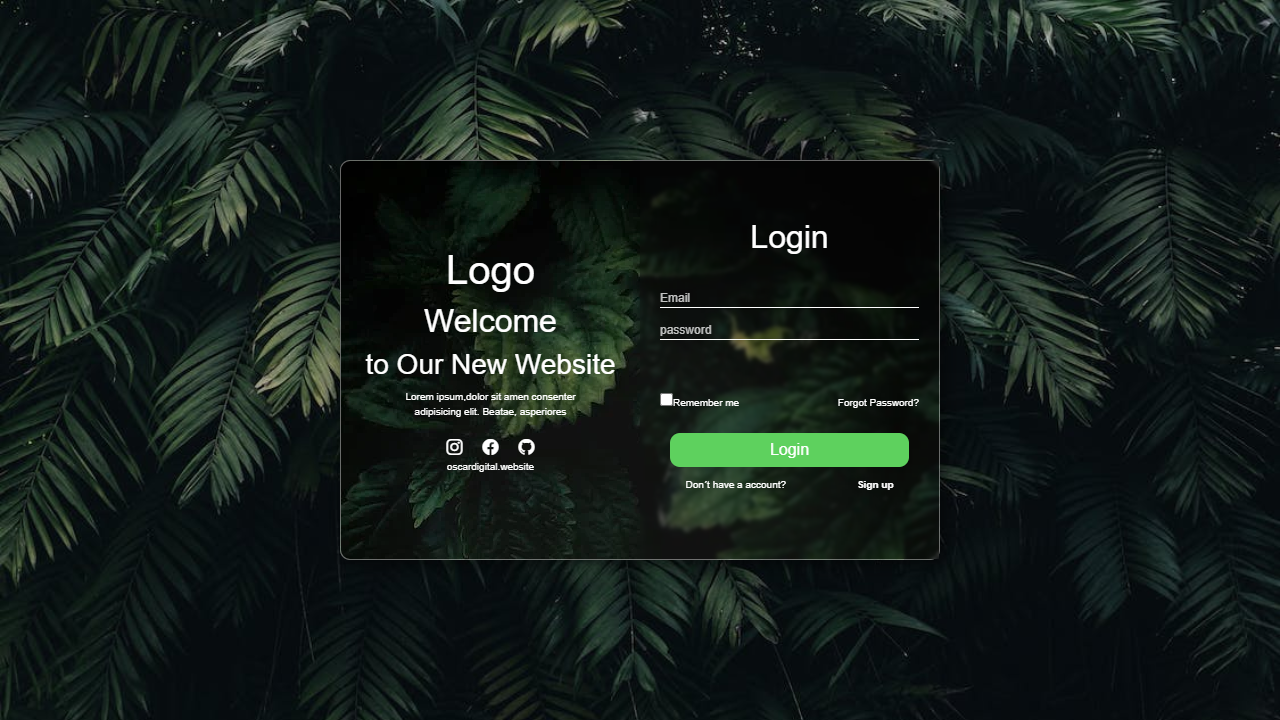
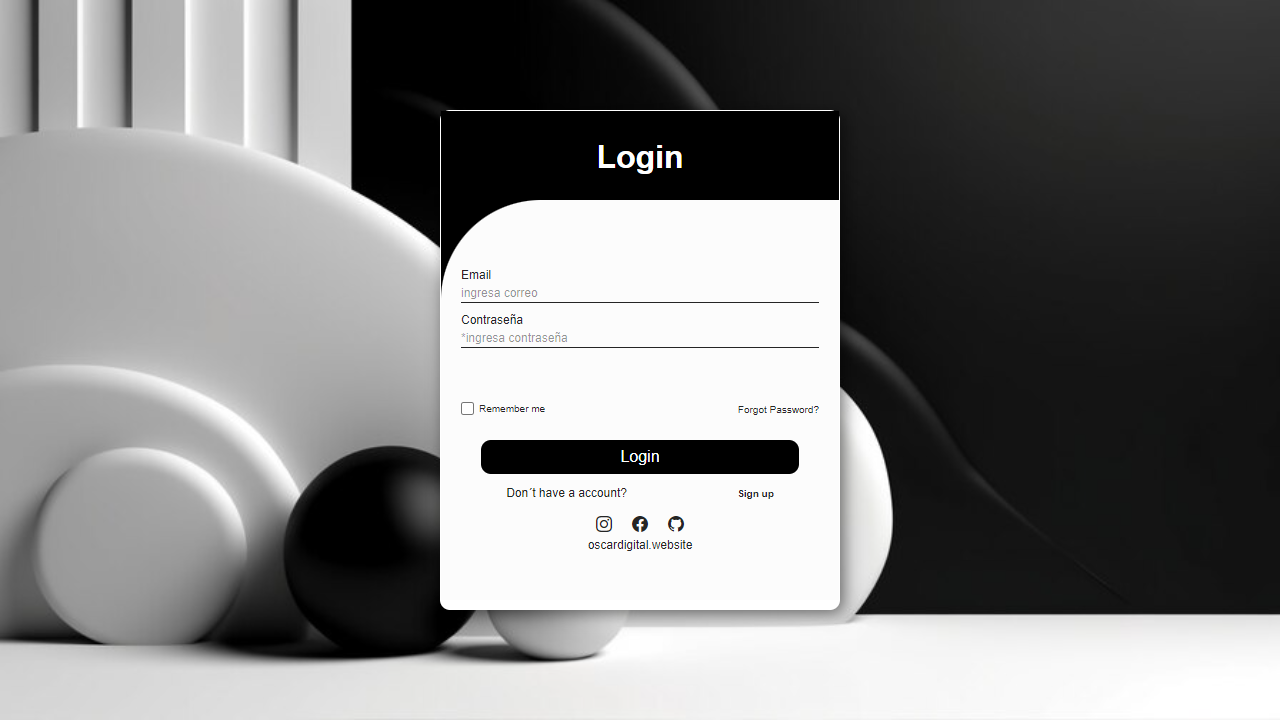
login elegant

diff --git a/src/pages/login-elegant.css b/src/pages/login-elegant.css
@@ -8,7 +8,7 @@
   position: relative;
   width: 100%;
   height: 100vh;
-  background-image: url("https://images.pexels.com/photos/9436715/pexels-photo-9436715.jpeg?auto=compress&cs=tinysrgb&w=1200");
+  background-image: url("https://img.freepik.com/foto-gratis/fondo-blanco-negro_23-2150530972.jpg?w=900&t=st=1697025914~exp=1697026514~hmac=94805a9ba666bcc3e22076189b3f545e8d664fd72c6e51c4d03078084e406e49");
   background-size: cover;
   background-repeat: no-repeat;
   display: flex;
@@ -19,7 +19,7 @@
 .card-box {
   position: relative;
   width: 400px;
-  height: 400px;
+  height: 500px;
   border-radius: 10px;
   -webkit-border-radius: 10px;
   -moz-border-radius: 10px;
@@ -29,23 +29,54 @@
   justify-content: center;
   align-items: center;
   box-shadow: 4px 4px 16px rgba(0, 0, 0, 0.535);
-  border: 1px solid rgba(255, 255, 255, 0.4);
-  background-color: rgba(254, 254, 254, 0.253);
-  backdrop-filter: blur(4px);
+  background-color: rgb(255, 255, 255);
+  border: 1px solid rgba(255, 255, 255, 0.23);
 }
 .form {
-  width: 80%;
+  position: relative;
+  width: 100%;
+  height: 400px;
   color: var(--color-text);
   display: flex;
   justify-content: center;
   flex-direction: column;
+  background-color: rgb(252, 252, 252);
+  z-index: 1;
+  border-radius: 100px 0px 0px 0px;
+  -webkit-border-radius: 100px 0px 0px 0px;
+  -moz-border-radius: 100px 0px 0px 0px;
+  -ms-border-radius: 100px 0px 0px 0px;
+  -o-border-radius: 100px 0px 0px 0px;
+  top: 40px;
+
+}
+.form label {
+  font-size: 12px;
+}
+.figure {
+  position: absolute;
+  background-color: rgb(0, 0, 0);
+  width: 100%;
+  height: 300px;
+  top: 0;
+  z-index: 0;
 }
 .form span {
   text-align: center;
   font-size: 12px;
 }
-.form h2 {
+.title {
+  width: 100%;
+  height: 100px;
+  display: flex;
+  justify-content: center;
+  align-items: center;
+
+}
+.title h2 {
   text-align: center;
+  color: white;
+  font-weight: bold;
 }
 
 .social-media {
@@ -70,6 +101,7 @@
   width: 100%;
   color: var(--color-text);
   font-size: 12px;
+  outline: none;
 }
 
 .recover {
@@ -83,13 +115,18 @@
   color: var(--color-text);
 }
 
+.remember {
+  display: flex;
+  align-items: center;
+  gap: 5px;
+}
 .button {
   display: flex;
   justify-content: center;
 }
 
 .button button {
-  background-color: rgb(94, 209, 94);
+  background-color: rgb(0, 0, 0);
   border: none;
   border-radius: 10px;
   -webkit-border-radius: 10px;
@@ -114,13 +151,13 @@
 }
 .register a {
   font-weight: bold;
+  cursor: pointer;
+  color: var(--color-text);
 }
 
 @media (max-width: 960px) {
   .card-box {
-    display: flex;
-    flex-direction: column;
-    height: auto;
+    height: 500px;
     width: 90%;
   }
   .form {

diff --git a/src/pages/LoginElegant.jsx b/src/pages/LoginElegant.jsx
@@ -1,19 +1,23 @@
 import React from 'react'
-import "./login-glass.css"
+import "./login-elegant.css"
 
-function LoginGlass() {
+function LoginElegant() {
     return (
         <div className='login'>
             <div className='card-box'>
             
+                <div className='figure'>
+                    <div className='title'>
+                       <h2>Login</h2>
+                    </div> 
+                </div>
                 <div className='form'>
-                    <h2>Login</h2>
                     <div className='data'>
-                        <label><input placeholder='Email' /></label>
-                        <label><input type='password' placeholder='password' /></label>
+                        <label>Email<input placeholder='ingresa correo' /></label>
+                        <label>Contraseña<input type='password' placeholder='*ingresa contraseña' /></label>
                     </div>
                     <div className='recover'>
-                        <div>
+                        <div className='remember'>
                             <input type='checkbox' />
                             <span>Remember me</span>
                         </div>
@@ -25,7 +29,7 @@ function LoginGlass() {
                         <button>Login</button>
                     </div>
                     <div className='register'>
-                        <span>Don´t have a account?</span> <a>Sign up</a>
+                        <span>Don´t have a account?</span> <a href=''>Sign up</a>
                     </div>
 
                     <div className='social-media'>
@@ -40,4 +44,4 @@ function LoginGlass() {
     )
 }
 
-export default LoginGlass
+export default LoginElegant

diff --git a/src/App.jsx b/src/App.jsx
@@ -2,13 +2,13 @@
 import './App.css'
 import 'bootstrap/dist/css/bootstrap.min.css';
 import 'bootstrap-icons/font/bootstrap-icons.css';
+import LoginElegant from './pages/LoginElegant';
 
-import LoginGlass from './pages/LoginGlass'
 function App() {
 
   return (
     <>
-    <LoginGlass/>
+    <LoginElegant/>
     </>
   )
 }
